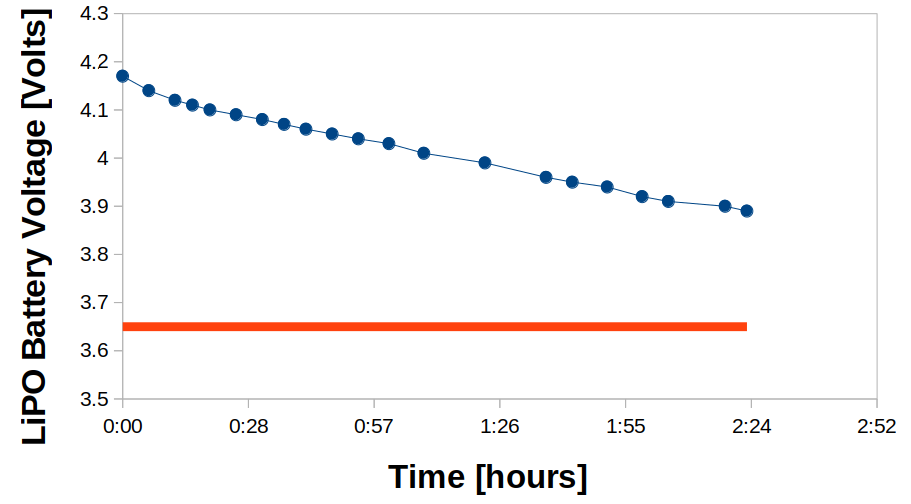
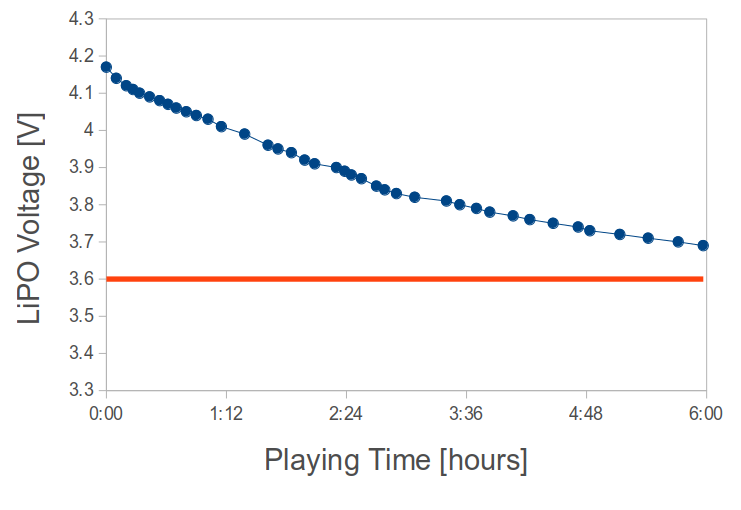
mp3 updates

Changed region(s): [[0.0931, 0.0, 0.9933, 0.8631], [0.0, 0.0, 0.0621, 0.8929], [0.3414, 0.8333, 0.7139, 0.9821]]

diff --git a/_site/projects/mp3/index.html b/_site/projects/mp3/index.html
@@ -72,7 +72,7 @@
 
 
   <meta property="og:type" content="article">
-  <meta property="article:published_time" content="2018-01-24T21:17:34-05:00">
+  <meta property="article:published_time" content="2018-01-24T21:53:51-05:00">
 
 
 
@@ -550,7 +550,7 @@
 <p>Here is what the voltage of the battery did as a function of playing time for a battery that was in use for about 6 months. Not too bad for not doing a serious job of power management.</p>
 
 <p><img src="http://localhost:4000/assets/images/projects/mp3/lipo_drain.png" alt="" />
-<em>LiPO battery voltage vs. time. Playing time about 4 hours.</em></p>
+<em>LiPO battery voltage vs. time. Playing time beyond 6 hours. Well beyond my attention span.</em></p>
 
 <h3 id="switches">Switches</h3>
 <p>3 position navigation switches just made sense here. Nice feel to them, easy to wire up and work with &amp; form factor was right.</p>

diff --git a/_site/projects/HRM/index.html b/_site/projects/HRM/index.html
@@ -72,7 +72,7 @@
 
 
   <meta property="og:type" content="article">
-  <meta property="article:published_time" content="2018-01-24T21:17:34-05:00">
+  <meta property="article:published_time" content="2018-01-24T21:53:51-05:00">
 
 
 

diff --git a/_site/projects/bobb/index.html b/_site/projects/bobb/index.html
@@ -72,7 +72,7 @@
 
 
   <meta property="og:type" content="article">
-  <meta property="article:published_time" content="2018-01-24T21:17:34-05:00">
+  <meta property="article:published_time" content="2018-01-24T21:53:51-05:00">
 
 
 

diff --git a/_site/projects/ergware/index.html b/_site/projects/ergware/index.html
@@ -72,7 +72,7 @@
 
 
   <meta property="og:type" content="article">
-  <meta property="article:published_time" content="2018-01-24T21:17:34-05:00">
+  <meta property="article:published_time" content="2018-01-24T21:53:51-05:00">
 
 
 

diff --git a/_site/projects/obd-ii/index.html b/_site/projects/obd-ii/index.html
@@ -72,7 +72,7 @@
 
 
   <meta property="og:type" content="article">
-  <meta property="article:published_time" content="2018-01-24T21:17:34-05:00">
+  <meta property="article:published_time" content="2018-01-24T21:53:51-05:00">
 
 
 

diff --git a/_embedded/03-home_energy.md b/_embedded/03-home_energy.md
@@ -11,7 +11,15 @@ toc: true
 ---
 > screenshot of home energy consumption dashboard
 ## Project overview
->> how much energy are we using?
+
+Winter months in the Northeast US give you plenty of time to sit around and come up with your next project. I kind of backed myself into this one by getting most of the piece parts together and then shaming myself into building it. In the end, it was another really fun project.
+
+In fact, it was probably the best mix of hardware and software to date, and probably not done yet. It starts with a simple question:
+
+> How much energy are we using **right now**?
+
+And remember, natural gas is a form of energy.
+
 ### Bill & Ted's excellent adventure
 
 ## S.T.E.M.
@@ -23,7 +31,7 @@ toc: true
 ### Internet serving
 
 ## Hardware
-### Circuit diagram
+### Circuit diagram - combined
 ### Gas detection - lasers & filters
 ### Electricity - Current clamps
 ### ATMega1284

diff --git a/_embedded/05-mp3_player.md b/_embedded/05-mp3_player.md
@@ -164,7 +164,7 @@ if (CmdVoltage1 ==1) {
 Here is what the voltage of the battery did as a function of playing time for a battery that was in use for about 6 months. Not too bad for not doing a serious job of power management.
 
 ![]({{ site.url }}/assets/images/projects/mp3/lipo_drain.png)
-*LiPO battery voltage vs. time. Playing time about 4 hours.*
+*LiPO battery voltage vs. time. Playing time beyond 6 hours. Well beyond my attention span.*
 
 ### Switches
 3 position navigation switches just made sense here. Nice feel to them, easy to wire up and work with & form factor was right.
